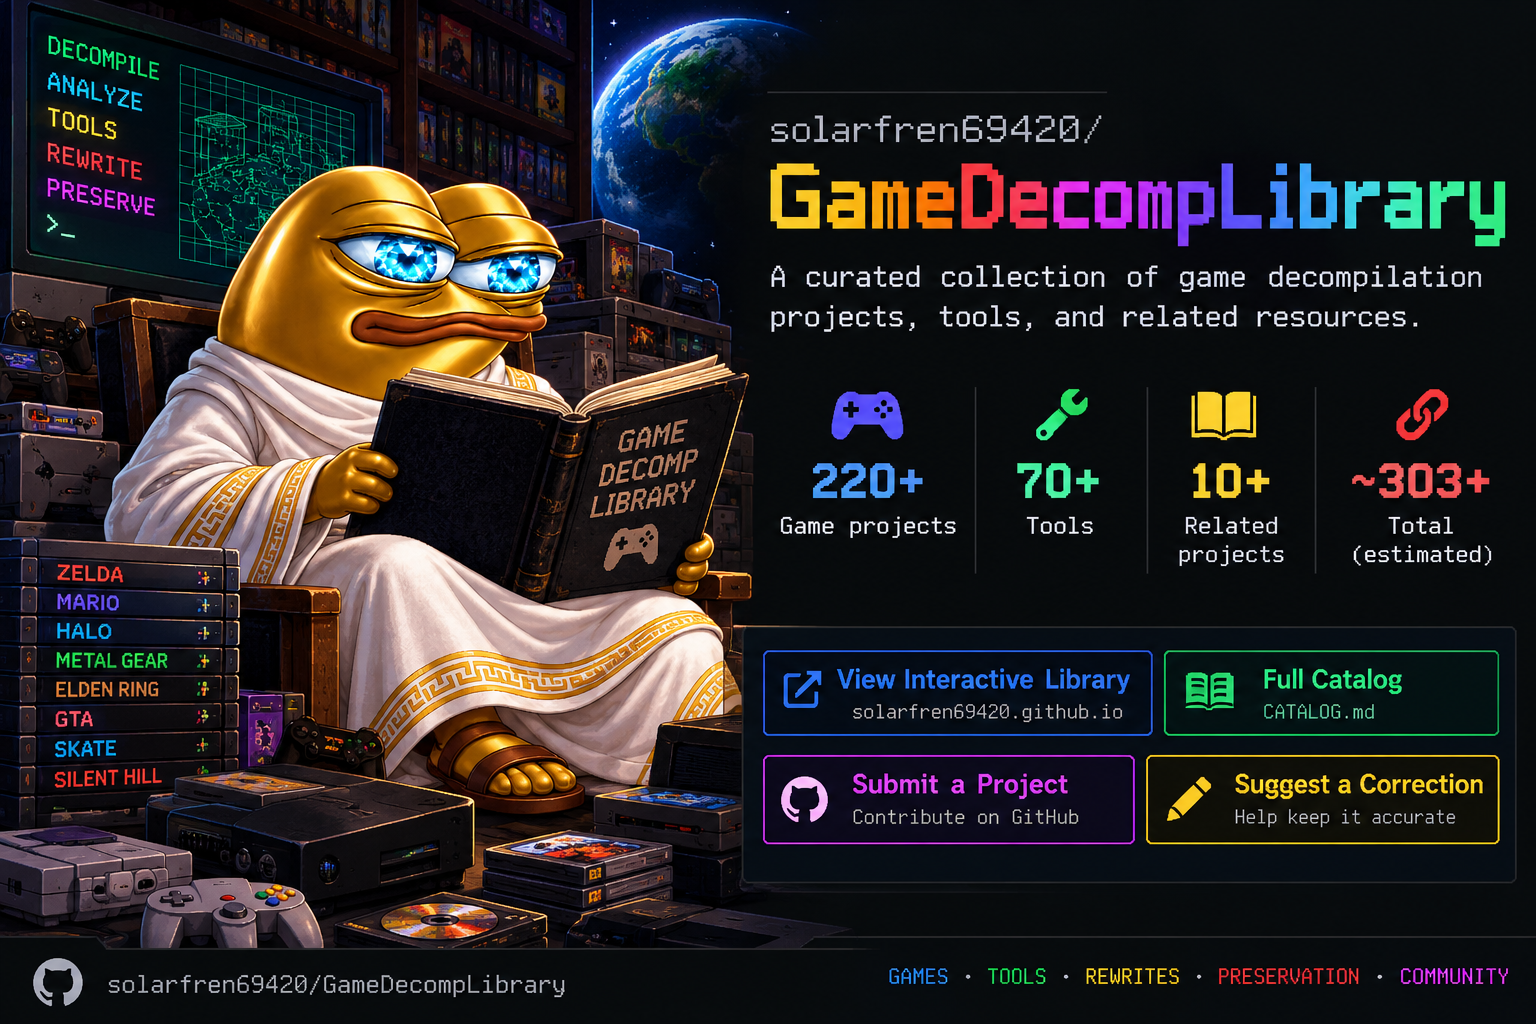
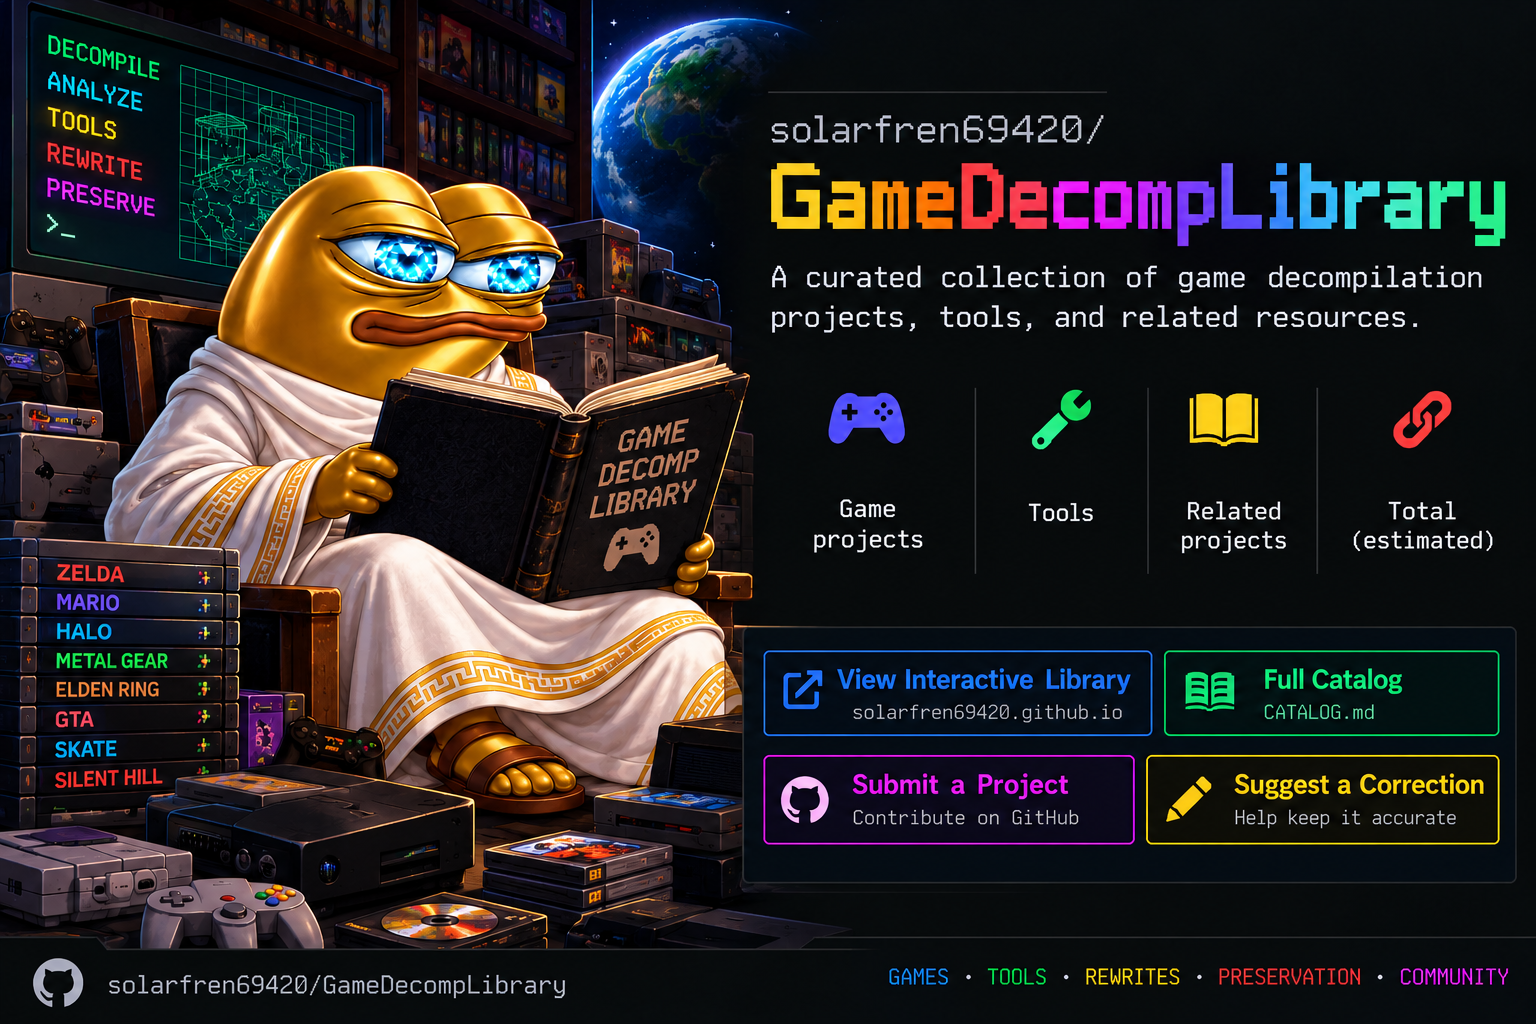
Add Project Arceus and number-free library artwork

diff --git a/scripts/finalize_audit.py b/scripts/finalize_audit.py
@@ -85,12 +85,12 @@ def main():
     lines = [
         '<p align="center"><a href="https://solarfren69420.github.io/GameDecompLibrary/"><img src="assets/library-card.png" alt="GameDecompLibrary: a golden librarian with a collection of game decompilation projects, tools and resources" width="100%"></a></p>', '',
         '# Game Decompilation Library — final accuracy report', '',
-        f'**Audit date: {audit_date} (UTC).** This README contains the final report, corrections, limits and an entry-by-entry audit of the complete 303-project snapshot.', '',
+        f'**Audit date: {audit_date} (UTC).** This README contains the final report, corrections, limits and an entry-by-entry audit of the original 303-project snapshot. Later additions are documented separately below.', '',
         f'[Interactive library](https://solarfren69420.github.io/GameDecompLibrary/) · [Full catalog](CATALOG.md) · [Submit your GitHub]({REPO}/issues/new?template=add-project.yml) · [Suggest a correction]({REPO}/issues/new?template=update-project.yml)', '',
         '<!-- catalog-stats:start -->',
         f"**{len(records)} projects** · {counts['decomp']} game projects · {counts['tool']} tools · {counts['related']} related projects · {counts['unconfirmed']} unconfirmed link",
         '<!-- catalog-stats:end -->', '',
-        'The artwork uses approximate counts. The totals above track the catalog; use the links above to browse, submit a project or suggest a correction.', '',
+        'The artwork has no fixed counts. The totals above update with the catalog; use the links above to browse, submit a project or suggest a correction.', '',
         '## Result', '',
         '| Check | Result |', '| --- | --- |',
         '| Original catalog preservation | All 303 original project URLs retained; no repository silently removed |',
@@ -151,7 +151,7 @@ def main():
     titles = {'decomp': 'Game projects', 'tool': 'Bindings and tools', 'related': 'Related projects', 'unconfirmed': 'Unconfirmed original link'}
     for category, title in titles.items():
         lines += [f'### {title}', '', '| Project | Platform / type | Decompiled | Linked | Target / scope | Audit result | Evidence |', '| --- | --- | --- | --- | --- | --- | --- |']
-        for entry in sorted((e for e in records if e['category'] == category), key=lambda e: e['name'].casefold()):
+        for entry in sorted((e for e in records if e['category'] == category and e['id'] in checked), key=lambda e: e['name'].casefold()):
             result = checked[entry['id']]
             status = result['metric']['status']
             labels = {'confirmed': 'Report checked', 'confirmed-published-metric': 'Published metric checked', 'qualified-maintainer-claim': 'Qualitative claim only', 'confirmed-function-count': 'Function metric checked', 'no-numeric-claim': 'Purpose reviewed'}
@@ -174,14 +174,22 @@ def main():
         '## Repository social preview', '',
         "The blue, yellow and orange strip on GitHub's default preview represents this repository's Python, JavaScript and HTML file sizes. It does not indicate game decompilation progress.", '',
         "To replace that default card, download [the prepared social preview](assets/social-preview.jpg), open [Settings → General](https://github.com/solarfren69420/GameDecompLibrary/settings), and choose **Social preview → Edit → Upload an image…**. The JPEG is 1280 × 640 and under 1 MB, following [GitHub's image requirements](https://docs.github.com/en/repositories/managing-your-repositorys-settings-and-features/customizing-your-repository/customizing-your-repositorys-social-media-preview). Committing artwork to the README does not activate this separate GitHub setting.", '',
-        'The README uses your original artwork. The wider social preview uses the same theme with the exact 303-entry snapshot counts. Artwork is static; the catalog workflow updates the text totals above. After catalog additions, update the preview artwork and upload it again if you want its numbers to reflect the newer totals.', '',
+        'The README uses your supplied artwork. The wider social preview uses the same theme without fixed numbers. The catalog workflow updates the text totals above, so adding repositories does not require redrawing the artwork.', '',
         '## Reproducible evidence and checks', '',
         'The readable final report is this single README. Supporting machine records include [per-source results and hashes](sources/audit-results.json), [before/after tracker records](sources/audit-changes.json) and the [unaltered original catalog](sources/game-decomp-github-linklist.txt). Source bodies are cached locally for the audit and are not copied into the public repository.', '',
         '```sh', 'python3 -m unittest discover -s tests -v', 'python3 scripts/build.py --update-docs', 'node --check web/app.js', '```', '',
         'For a new live audit, run `python3 scripts/audit_sources.py --refresh`. Without `--refresh`, the collector reuses this audit session’s local cache. This read-only collector distinguishes URL retrieval from semantic scope review. A fresh run does not certify claims automatically; review its findings before finalizing a new report.', '',
         'For local preview:', '', '```sh', 'python3 scripts/build.py', 'python3 -m http.server 8080 --directory _site', '```', '',
         'Additional operating instructions remain in [CONTRIBUTING.md](CONTRIBUTING.md) and [MAINTAINING.md](MAINTAINING.md).']
-    (ROOT / 'README.md').write_text('\n'.join(lines).rstrip() + '\n')
+    # Keep separately reviewed community additions outside this dated audit.
+    readme_path = ROOT / 'README.md'
+    previous = readme_path.read_text()
+    additions_heading = '## Additions outside the original audit\n'
+    if additions_heading in previous:
+        additions = previous.split(additions_heading, 1)[1].split('\n## Result\n', 1)[0]
+        result_index = lines.index('## Result')
+        lines[result_index:result_index] = [additions_heading.rstrip(), additions.rstrip(), '']
+    readme_path.write_text('\n'.join(lines).rstrip() + '\n')
     print('Final report written to README.md:', dict(Counter(r['metric']['status'] for r in report['projects'])))
 
 

diff --git a/README.md b/README.md
@@ -2,15 +2,21 @@
 
 # Game Decompilation Library — final accuracy report
 
-**Audit date: 2026-10-04 (UTC).** This README contains the final report, corrections, limits and an entry-by-entry audit of the complete 303-project snapshot.
+**Audit date: 2026-10-04 (UTC).** This README contains the final report, corrections, limits and an entry-by-entry audit of the original 303-project snapshot. Later additions are documented separately below.
 
 [Interactive library](https://solarfren69420.github.io/GameDecompLibrary/) · [Full catalog](CATALOG.md) · [Submit your GitHub](https://github.com/solarfren69420/GameDecompLibrary/issues/new?template=add-project.yml) · [Suggest a correction](https://github.com/solarfren69420/GameDecompLibrary/issues/new?template=update-project.yml)
 
 <!-- catalog-stats:start -->
-**303 projects** · 220 game projects · 71 tools · 11 related projects · 1 unconfirmed link
+**304 projects** · 220 game projects · 71 tools · 12 related projects · 1 unconfirmed link
 <!-- catalog-stats:end -->
 
-The artwork uses approximate counts. The totals above track the catalog; use the links above to browse, submit a project or suggest a correction.
+The artwork has no fixed counts. The totals above update with the catalog; use the links above to browse, submit a project or suggest a correction.
+
+## Additions outside the original audit
+
+**2026-10-04 — [Project Arceus](https://github.com/NicoRuedaA/project-arceus)** was accepted under **Related projects** as a reverse-engineering workspace and experimental Rust/Bevy port scaffold for Pokémon Legends: Arceus. Its [catalog record](data/projects/nicoruedaa--project-arceus.json) includes commit-pinned sources and review qualifications. The review compared its README, source, report definitions, all 38 recorded Rust source hashes and the evidence-ledger hash. It did not build or gameplay-test the project.
+
+Its report's 64.151855% byte coverage describes exported Ghidra pseudocode for the update main NSO; implementation, behavior verification and binary matching remain unknown. This is not a comparable overall game completion percentage, so both numeric catalog fields stay null. This separate review does not change the original audit's 303-entry results below.
 
 ## Result
 
@@ -439,7 +445,7 @@ The blue, yellow and orange strip on GitHub's default preview represents this re
 
 To replace that default card, download [the prepared social preview](assets/social-preview.jpg), open [Settings → General](https://github.com/solarfren69420/GameDecompLibrary/settings), and choose **Social preview → Edit → Upload an image…**. The JPEG is 1280 × 640 and under 1 MB, following [GitHub's image requirements](https://docs.github.com/en/repositories/managing-your-repositorys-settings-and-features/customizing-your-repository/customizing-your-repositorys-social-media-preview). Committing artwork to the README does not activate this separate GitHub setting.
 
-The README uses your original artwork. The wider social preview uses the same theme with the exact 303-entry snapshot counts. Artwork is static; the catalog workflow updates the text totals above. After catalog additions, update the preview artwork and upload it again if you want its numbers to reflect the newer totals.
+The README uses your supplied artwork. The wider social preview uses the same theme without fixed numbers. The catalog workflow updates the text totals above, so adding repositories does not require redrawing the artwork.
 
 ## Reproducible evidence and checks
 

diff --git a/CATALOG.md b/CATALOG.md
@@ -384,6 +384,12 @@ Percentages describe a cited target and snapshot, not overall game completion. L
 | [Pokémon Ruby / Sapphire](https://github.com/pret/pokeruby) · [details](data/projects/pret--pokeruby.json) | Assembly-labelled disassembly / reconstruction | N/A | — | [Source](https://raw.githubusercontent.com/pret/pokeruby/HEAD/README.md) · 2026-10-04 |
 | [Pokémon HeartGold / SoulSilver](https://github.com/pret/pokeheartgold) · [details](data/projects/pret--pokeheartgold.json) | WIP disassembly | N/A | — | [Source](https://raw.githubusercontent.com/pret/pokeheartgold/HEAD/README.md) · 2026-10-04 |
 
+### Community submissions
+
+| Project / repository | Platform or type | Decompiled | Linked | Evidence / snapshot |
+| --- | --- | --- | --- | --- |
+| [Pokémon Legends: Arceus — Project Arceus](https://github.com/NicoRuedaA/project-arceus) · [details](data/projects/nicoruedaa--project-arceus.json) | Reverse-engineering workspace / experimental port scaffold | N/A | — | [Source](https://github.com/NicoRuedaA/project-arceus/blob/9efdd6933edbe18e1a30a37aa17bdf59a718fb30/README.md) · 2026-10-04 |
+
 ## Unconfirmed original links
 
 ### Unconfirmed original link
